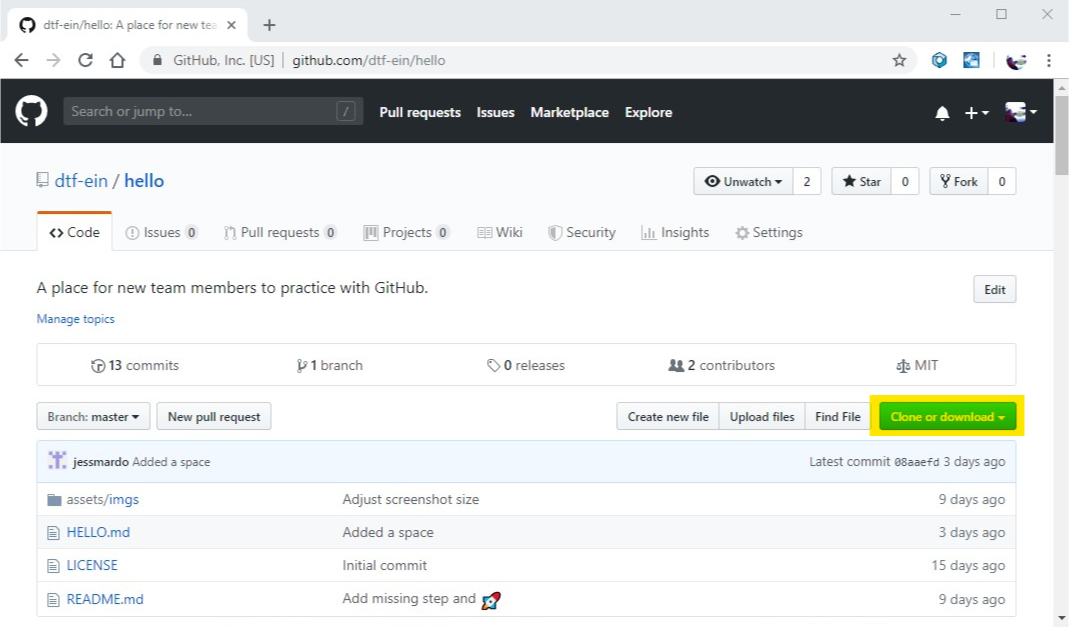
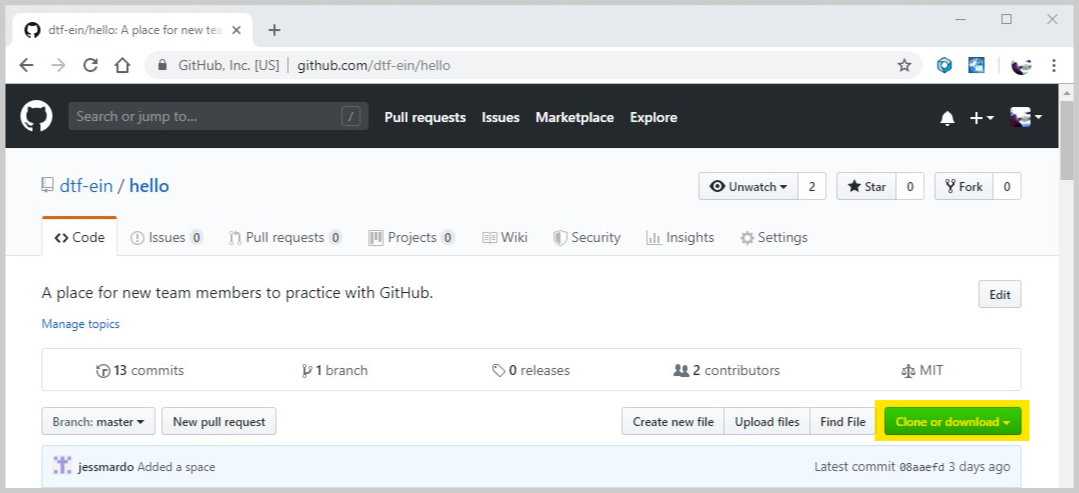
Reword and add image borders

diff --git a/README.md b/README.md
@@ -1,22 +1,14 @@
 # Hello!
-This project will help you start working with GitHub. Once you've finished, you'll be able to: 
-
-* [Clone a repository](#clone-a-repository)
-* [Create a new branch](#create-a-new-branch)
-* [Make a change](#make-a-change)
-* [Create a pull request](#create-a-pull-request)
-* [Merge a pull request](#merge-a-pull-request)
-* [Update your repository](#update-your-repository)
-
+This project will help you start working with GitHub.   
 :rocket: If you're new to Git, [this handbook](https://guides.github.com/introduction/git-handbook/) is a great intro.
 
-# Setup
+# Get started
 1. [Create your GitHub account](https://github.com/join).
-1. [Download and install Git](https://git-scm.com/downloads) (use all defaults for install).
-1. [Download and install VS Code](https://code.visualstudio.com/download) (use all defaults for install).
+1. [Download and install Git](https://git-scm.com/downloads) (use the install defaults).
+1. [Download and install VS Code](https://code.visualstudio.com/download) (use the install defaults).
 1. [Open a command prompt](https://www.wikihow.com/Open-the-Command-Prompt-in-Windows) and enter the following two commands:
 ```bash
-git config --global user.name "Your name"
+git config --global user.name "Your Name"
 git config --global user.email "your.name@canada.ca"
 # Once you're done, you can close this command prompt
 ```
@@ -36,12 +28,12 @@ Now you have a local copy of the repository that matches the remote repository o
 # Create a new branch
 We use the [GitHub flow](https://guides.github.com/introduction/flow/) to make changes, so the first step to making a change is creating a new branch.
 
-1. Go to the `Source Control` view of VS Code in the vertical left menu, click the `...` llink and select `Checkout to...`:
+1. Go to the `Source Control` view of VS Code in the vertical left menu, click the `...` link and select `Checkout to...`:
 ![Creating a branch in VS Code](./assets/imgs/new-branch.png)
 2. Select `Create new branch...` from the menu.
 3. Enter the branch name and click `Enter`.
 
-You're now working on a new branch of the repository.  All Git repositories have a main branch called `master`.  When you make changes in a new branch, it keeps your changes separate from the `master` branch until you're ready to merge them.  
+You're now working on a new branch of the repository.  All Git repositories have a main branch called `master`.  When you make changes in a new branch, it keeps your changes separate from the `master` branch until they're finished.  
 
 # Make a change
 1. Go back to the `Explorer` view of VS Code from the vertical left menu.
@@ -50,20 +42,20 @@ You're now working on a new branch of the repository.  All Git repositories have
 1. If you want to see how it will look, press `F1` and type `Markdown: Open preview`.
 1. Go back to the `Source Control` view.  You should now see `HELLO.md` in the list of changed files. 
 1. Select `HELLO.md` to see that change you made.
-1. If you're happy with the change, click the `+` that appears when you hover `HELLO.md` to stage the change.  This tells Git you are planning to commit the file.
+1. If you're happy with the change, click the `+` that appears when you hover `HELLO.md` to stage the change.  This tells Git you are planning to save the change to your branch (with a commit).
 1. Enter a message and press `CTRL + Enter` to commit the change:
 ![Creating a commit in VS Code](./assets/imgs/commit-message.png)
 
-You've just created a new commit!  This is where Git shines.  It keeps a complete history of changes (commits) made to a project that you can browse whenever you want.
+You've just created a commit!  This is where Git shines.  It keeps a complete history of all changes (commits) made to a repository that you can browse whenever you want.
 
 # Create a pull request
-Now that you've made a change, it's time to merge it with the `master` branch of the repository so everyone can see it.  This is done with a pull request.
+Now that you've made a change in your branch, it's time to move that change into the `master` branch of the repository so everyone can see it.  In Git, this is called merging your branch with `master` and GitHub uses **Pull Requests** to do this.
 
 1. Go back to the `Source Control` view, click the same `...` link you used to create a branch and select `Push`.
-1. Select `OK` to publish the branch.  
+1. Select `OK` to publish the branch.  This copies it from your local repository to the remote repository on GitHub.
 1. Open a browser and go to the [repository on GitHub](https://github.com/dtf-ein/hello).
 1. Click the green `Compare & pull request` button.
-1. Update the pull request title and description to explain the change.
+1. Update the pull request title and description to explain the change.  This lets other people know what you've done.
 1. Click `Create pull request`.
 
 The pull request can now be reviewed by other team members, and if everything looks good, it will get merged into `master`.  
